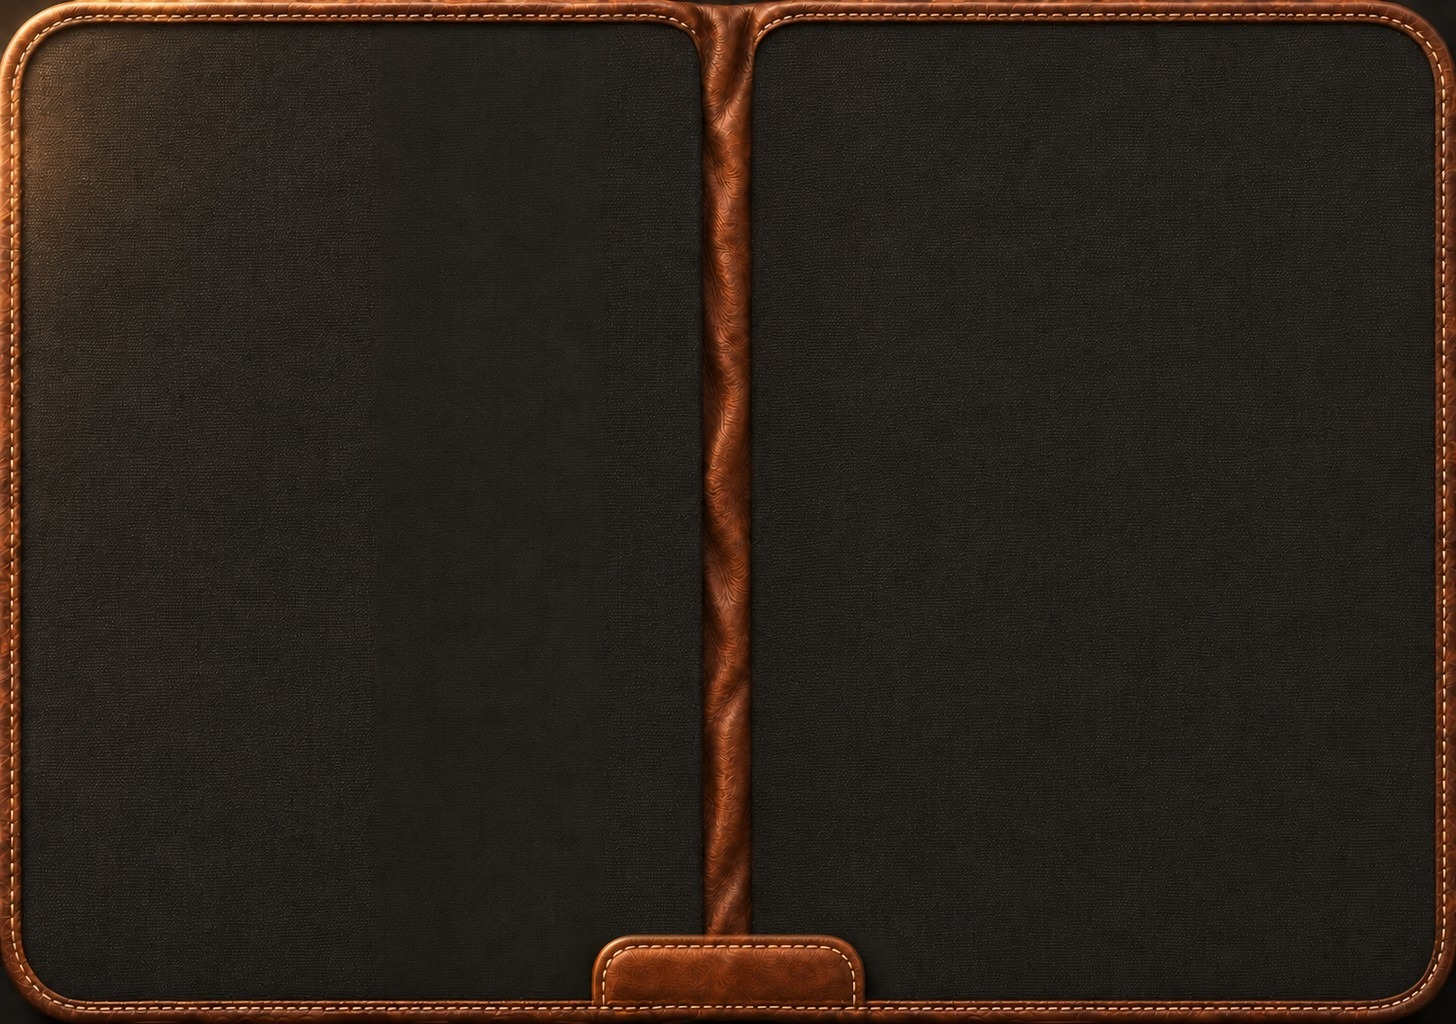
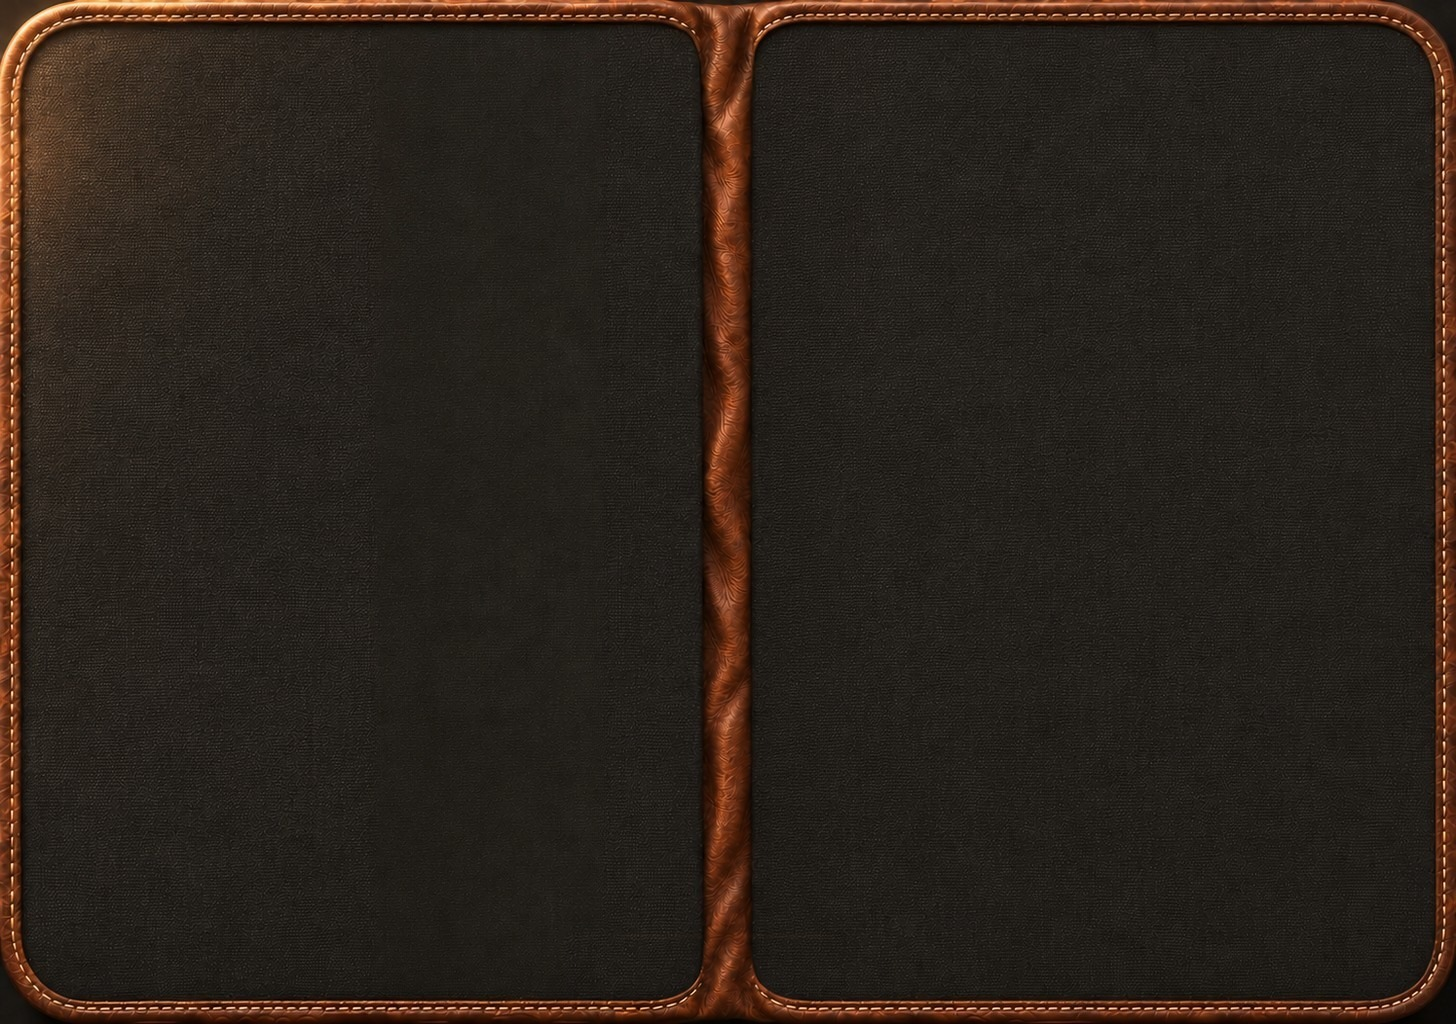
N1b (user 11/25): the page selector as the earlier long dial bar, slimmer, its glass highlight even at both ends, the three page names inside with a short needle under the open one (GPT art); the leather seat taken back out of the bag pictures, the sleeve uncut, the try-my-photo slip moved right. Bu

Changed region(s): [[0.4018, 0.9062, 0.6181, 1.0]]

diff --git a/cameragr/UI/PageDial.swift b/cameragr/UI/PageDial.swift
@@ -1,13 +1,11 @@
 import SwiftUI
 
-/// The page selector (user 11/25, from design/community/v6/nav/1c_narrow_club):
-/// one narrow brass window set in the middle of the bag's bottom edge, the
-/// same place and size on every pair of pages (no more widening, narrowing or
-/// moving on the community's). Behind its glass a strip of page names slides,
-/// the open one under the red needle; turning the pages slides it along, like
-/// tuning an old radio. Drag along the glass to turn; tap a name showing at
-/// either side to go there. The window is GPT art (window_narrow_gpt.png);
-/// the names are text, so every language reads them.
+/// The page selector (user 11/25, from design/community/v6/nav/1b_wide_club,
+/// made slimmer, its glass's highlight even at both ends): one long brass
+/// window across the bag's bottom edge, the same on every pair of pages, the
+/// three page names on its scale and a short red needle under the open one,
+/// sliding to the next as the pages turn. Tap a name, or slide along the
+/// glass. The window is GPT art (window_long_gpt.png); the names are text.
 struct PageDial: View {
     /// Page names are made in code: drawn again when the language changes.
     @ObservedObject private var language = AppLanguage.shared
@@ -15,105 +13,81 @@ struct PageDial: View {
     let s: CGFloat
     let choose: (Spread) -> Void
     @Environment(\.bagBoost) private var b
-    @GestureState private var drag: CGFloat = 0
+    @GestureState private var dragX: CGFloat?
     @State private var lastDetent: Int?
 
-    static let window = UIImage(named: "nav_window_narrow") ?? UIImage()
+    static let window = UIImage(named: "nav_window_long") ?? UIImage()
     static let needle = UIImage(named: "nav_needle") ?? UIImage()
-    /// In the bag's art units: centred under the spine, on the bottom edge.
+    /// In the bag's art units: centred under the spine, on the bottom edge, slim.
     static let rect: CGRect = {
-        let w: CGFloat = 250
+        let w: CGFloat = 640
         let h = w * window.size.height / max(window.size.width, 1)
-        return CGRect(x: 728 - w / 2, y: 1008 - h, width: w, height: h)   // inside the bag's bottom edge
+        return CGRect(x: 728 - w / 2, y: 1014 - h, width: w, height: h)
     }()
     /// The same on every spread.
     static func rect(for _: Spread) -> CGRect { rect }
-    /// The leather seat GPT drew under it in each bag picture (art units):
-    /// layers over the pages (the community's sleeve) leave it showing.
-    static let seat = CGRect(x: 572, y: 946, width: 312, height: 78)
     /// The glass, as fractions of the window picture.
-    static let glass = CGRect(x: 0.03, y: 0.15, width: 0.94, height: 0.68)
+    static let glass = CGRect(x: 0.035, y: 0.14, width: 0.93, height: 0.72)
 
     private var pages: [Spread] { Spread.shown }
     private var index: Int { pages.firstIndex(of: spread) ?? 0 }
 
+    /// Where page i's name sits across the window, in points.
+    private func x(_ i: Int, _ g: CGRect) -> CGFloat {
+        g.minX + g.width * (CGFloat(i) + 0.5) / CGFloat(pages.count)
+    }
+    private func nearest(_ px: CGFloat, _ g: CGRect) -> Int {
+        let u = (px - g.minX) / g.width * CGFloat(pages.count) - 0.5
+        return min(max(Int(u.rounded()), 0), pages.count - 1)
+    }
+
     var body: some View {
         let r = Self.rect, w = r.width * s, h = r.height * s
         let g = CGRect(x: Self.glass.minX * w, y: Self.glass.minY * h, width: Self.glass.width * w, height: Self.glass.height * h)
-        // One name per stop, a whole window apart: only the open one shows
-        // (user 11/25: room for one word), the next slides in as the page turns.
-        let step = g.width
-        let shift = -CGFloat(index) * step + drag
+        let needleX = dragX.map { min(max($0, g.minX), g.maxX) } ?? x(index, g)
         ZStack(alignment: .topLeading) {
             Image(uiImage: Self.window).resizable()
                 .frame(width: w, height: h)
                 .shadow(color: .black.opacity(0.55), radius: 3 * s, y: 2 * s)
-            ZStack(alignment: .leading) {
-                ForEach(Array(pages.enumerated()), id: \.element) { i, page in
-                    let x = g.width / 2 + CGFloat(i) * step + shift
-                    let centred = abs(x - g.width / 2) < step / 2
-                    Button { if !centred { choose(page) } } label: {
-                        Text(verbatim: page.title)
-                            .font(.custom("American Typewriter", size: 17 * s * min(b, 1.3)).weight(.semibold))
-                            .foregroundStyle(centred ? Color(red: 0.62, green: 0.1, blue: 0.06)
-                                                     : Color(red: 0.22, green: 0.16, blue: 0.1).opacity(0.75))
-                            .lineLimit(1).minimumScaleFactor(0.5)
-                            .frame(width: step * 0.9, height: max(g.height, 44))
-                            .contentShape(Rectangle())
-                    }
-                    .buttonStyle(.plain)
-                    .allowsHitTesting(false)   // touched through the window (below); VoiceOver picks any by name
-                    .position(x: x, y: g.height * 0.38)
-                    .accessibilityLabel(Text(verbatim: page.title))
-                    .accessibilityAddTraits(page == spread ? [.isSelected] : [])
+            ForEach(Array(pages.enumerated()), id: \.element) { i, page in
+                let open = page == spread
+                Button { if !open { choose(page) } } label: {
+                    Text(verbatim: page.title)
+                        .font(.custom("American Typewriter", size: 17 * s * min(b, 1.3)).weight(.semibold))
+                        .foregroundStyle(open ? Color(red: 0.62, green: 0.1, blue: 0.06)
+                                              : Color(red: 0.22, green: 0.16, blue: 0.1).opacity(0.8))
+                        .lineLimit(1).minimumScaleFactor(0.5)
+                        .frame(width: g.width / CGFloat(pages.count) * 0.92, height: max(h, 44))
+                        .contentShape(Rectangle())
                 }
+                .buttonStyle(.plain)
+                .position(x: x(i, g), y: g.minY + g.height * 0.38)
+                .accessibilityLabel(Text(verbatim: page.title))
+                .accessibilityAddTraits(open ? [.isSelected] : [])
             }
-            .frame(width: g.width, height: g.height)
-            .clipShape(Capsule())
-            .offset(x: g.minX, y: g.minY)
-            .animation(.spring(response: 0.42, dampingFraction: 0.82), value: index)
-            // Faint arrows at the ends where there is a page that way: a tap there turns.
-            ForEach([-1, 1], id: \.self) { d in
-                if pages.indices.contains(index + d) {
-                    Image(systemName: d < 0 ? "chevron.compact.left" : "chevron.compact.right")
-                        .font(.system(size: g.height * 0.45, weight: .semibold))
-                        .foregroundStyle(Color(red: 0.25, green: 0.18, blue: 0.12).opacity(0.35))
-                        .position(x: d < 0 ? g.minX + g.height * 0.45 : g.maxX - g.height * 0.45, y: g.minY + g.height * 0.4)
-                        .allowsHitTesting(false)
-                }
-            }
-            // The needle, fixed in the middle.
-            // Short, on the scale under the name (never across it).
+            // A short needle on the scale, under the open name (never across it).
             let nh = g.height * 0.42, nw = nh * Self.needle.size.width / max(Self.needle.size.height, 1)
             Image(uiImage: Self.needle).resizable()
                 .frame(width: nw, height: nh)
                 .shadow(color: .black.opacity(0.3), radius: 1 * s, x: 0.5 * s, y: 0.5 * s)
-                .position(x: w / 2, y: g.maxY - nh / 2)
+                .position(x: needleX, y: g.maxY - nh / 2)
                 .allowsHitTesting(false)
+                .animation(.spring(response: 0.42, dampingFraction: 0.8), value: index)
         }
         .frame(width: w, height: h, alignment: .topLeading)
         .contentShape(Rectangle())
-        // A tap at either end of the window turns that way, one page.
-        .onTapGesture { at in
-            let to = at.x < w / 3 ? index - 1 : at.x > w * 2 / 3 ? index + 1 : index
-            if pages.indices.contains(to), to != index { Haptic.click(); choose(pages[to]) }
-        }
         .accessibilityElement(children: .contain)
         .accessibilityIdentifier("page-dial")
         .simultaneousGesture(
             DragGesture(minimumDistance: 8)
-                .updating($drag) { v, state, _ in state = v.translation.width }
+                .updating($dragX) { v, state, _ in state = v.location.x }
                 .onChanged { v in
-                    // A click at each name the needle passes.
-                    let at = Int(((CGFloat(index) * step - v.translation.width) / step).rounded())
-                    if at != lastDetent, pages.indices.contains(at) { lastDetent = at; Haptic.detent() }
+                    let at = nearest(v.location.x, g)
+                    if at != lastDetent { lastDetent = at; Haptic.detent() }
                 }
                 .onEnded { v in
                     lastDetent = nil
-                    // Where the strip was let go, nudged on by a quick flick.
-                    let flick = (v.predictedEndTranslation.width - v.translation.width) * 0.25
-                    let at = Int(((CGFloat(index) * step - v.translation.width - flick) / step).rounded())
-                    let to = pages[min(max(at, 0), pages.count - 1)]
+                    let to = pages[nearest(v.location.x, g)]
                     if to != spread { choose(to) }
                 }
         )

diff --git a/cameragr/UI/ClubPage.swift b/cameragr/UI/ClubPage.swift
@@ -1128,18 +1128,6 @@ struct ClubSleevePage: View {
             .frame(width: cw, height: page.height * s, alignment: .leading)
             .clipShape(UnevenRoundedRectangle(bottomTrailingRadius: RollLibrary.boardRadius * s,
                                               topTrailingRadius: RollLibrary.boardRadius * s))
-            // The page window's leather seat (in the bag picture) shows through.
-            .mask {
-                let seat = PageDial.seat.offsetBy(dx: -ClubArt.scrollX, dy: -page.minY).scaled(s)
-                ZStack(alignment: .topLeading) {
-                    Rectangle()
-                    RoundedRectangle(cornerRadius: 16 * s)
-                        .frame(width: seat.width, height: seat.height)
-                        .offset(x: seat.minX, y: seat.minY)
-                        .blendMode(.destinationOut)
-                }
-                .compositingGroup()
-            }
             .offset(x: ClubArt.scrollX * s, y: page.minY * s)
         }
         .task { await club.load() }

diff --git a/cameragr/UI/OwnPhoto.swift b/cameragr/UI/OwnPhoto.swift
@@ -27,7 +27,7 @@ struct TryMyPhotoSlip: View {
 
     static let picture = UIImage(named: "kraft_slip") ?? UIImage()
     /// Beside the sleeve's page tab, on the page's foot (bag pixels).
-    static let place = CGRect(x: 880, y: 930, width: 166, height: 53)   // clear of the page window's leather seat (x 566…890)
+    static let place = CGRect(x: 1156, y: 930, width: 196, height: 53)   // right of the page tab, clear of the long page window (x 408…1048)
 
     var body: some View {
         let r = Self.place

diff --git a/project/reviews/N1b.md b/project/reviews/N1b.md
@@ -1,0 +1,28 @@
+## 必须改
+
+- **导航与已定决定冲突**：`cameragr/UI/PageDial.swift:23、52`，截图 1–3 均为三词长窗；`project/QUEUE.md:199` 明确要求“正中只放一个词的小窗、纸条跟手指滑”。当前改成固定三词、指针跟手，与记录不符。**修复**：按已定方案恢复；若 N1b 已获用户另行批准，则补录新决定及验收标准。现有材料无法确认这次改版的授权。
+
+未发现本次差异中有可确认的崩溃、数据丢失或购买逻辑缺陷。
+
+## 建议改
+
+- `PageDial.swift:60`：按钮只保证高度 ≥44pt，宽度仍随整包缩小。建议小屏下保证每个入口至少 44pt 宽，并实测相邻入口是否容易误触。
+- `PageDial.swift:19`：图片缺失会静默回退空图，继而令导航高度为零。建议调试构建明确断言资源存在。
+- 截图 3 手册底部的淡出对应可滚动内容，不能据此判为文字截断；建议确认用户能自然发现并滚到全文末尾。
+
+## 偏离蓝图
+
+- `project/BLUEPRINT.md:125` 只有 N1“导航窄版”，**未找到 N1b 或其独立 done-criteria**，无法按声称的任务标准验收。
+- `N1b.diff` 的工程文件还加入了 `OwnPictures.swift`、既有页面素材和多项测试引用，构建号由 60 跳到 79。可能是工程重新生成带入的历史差异，建议注明来源或缩小审查差异；目前不能认定这些都是本任务新增功能。
+
+## 测试建议
+
+- 补跑导航 UI 测试：三页互切、跨两档拖动、拖出窗后松手、快速连续操作、取消拖动、VoiceOver。
+- 在 Duo 真机及最小支持屏幕上，中英文检查导航点击区域、照片试用纸条、页边翻页手势是否冲突。
+- 从干净检出构建，确认未跟踪的 `nav_window_long.png` 已纳入交付，并验证实际安装包包含资源。
+- 切页后确认浏览位置保留、不误换卷、不触发购买。此次仅静态审查及截图检查，未运行构建或真机测试，未修改文件。
+
+## 结论
+
+修改后通过
+

diff --git a/project/PROGRESS.md b/project/PROGRESS.md
@@ -799,3 +799,7 @@
 - 服务端：GET /v1/users/:id（别人看到的名字、最常用的胶卷、用过几种胶卷——只按公开作品；是否已关注；没有任何人数）、GET /v1/users/:id/posts（TA 的公开照片，本人页还含自己待审的）；被拉黑（任一方向）、封号、注销中都 404。测试 Worker 全过（9 项）。
 - App：看片卡上点作者名 → 收起看片卡，左页海报处抽出 GPT 画的档案夹（圆章写名字首字、名字纸条、“多用某卷 · 拍过几种胶卷”、关注签、口袋上“回到题目”），右边相册换成 TA 的照片，吊牌写“相册：某某的照片”；资料与照片同时读取；读取失败给重试，对方已看不到时提示并回到题目。
 - 89 单元、18 UI 测试通过。GPT：改后通过（失败状态与重试、单复数、并发读取已改；简介拆成 S2b 写进蓝图——它要审核，范围单独做；圆章按调研报告用名字首字）。
+
+## 2026-11-25 N1b 长条导航（用户改定；build 80，已装手机）
+- 用户在对话里指回之前的长条版（1b），要求高光两端对称、上下做薄、窗里放导航。GPT 画了细长铜窗；三页一致；三个页名在窗里，短红针在当前页名下、随翻页滑动；点名字或沿窗拖动换页（每过一个名字轻震）。皮托恢复原样，相册不再挖缺口，纸条挪开。
+- 18 UI、89 单元测试通过。GPT：改后通过（必须改是“与已记录的单词小窗方案不符”——用户本次改定，已补记）。

diff --git a/project/QUEUE.md b/project/QUEUE.md
@@ -210,3 +210,4 @@
 - 第 11 次复盘提案（GPT，11/25，discuss/retro-11.md）：五个风险——正式链路未接通（apiBase 仍 nil，需 Apple 登录描述文件）、举报真实送达缺最后一公里、74–76 的触摸回归要真机验、S3/S4 可能泄露审核状态、C17a 关联是本机数据（换机不恢复）。顺序 S3→S1→S2→S6→S4→S5；“拍过几卷”= 公开作品用过的不同胶卷种数（建议，你可改）。
 - ✔ 11/25 build 78 已装手机（含 N1 导航窄版、N2 铜环、S3、S1、真机反馈修复）。
 - B22（11/25）S2 作者页的服务端（两个新接口）部署到正式服务器：你说一句“部署到正式服务器”我就执行。另：作者页简介（S2b）里能不能写站外联系方式（比如 Instagram 账号）？
+- ✔ 11/25 用户改定导航（对话，附 1b_wide_club 截图）：在之前那版长条导航基础上改——高光两端对称、上下做薄、三个页名都放在窗里（取代“只放一个词的小窗”和皮托）。已做：GPT 画的细长铜窗（window_long_gpt.png），宽 640、高约 46，三页一致；红针在当前页名下滑动；点名字或沿窗拖动换页。三张底图的皮托恢复原样，社区相册不再挖缺口，“用我的照片试试”挪到翻页标签右边（build 80）。
